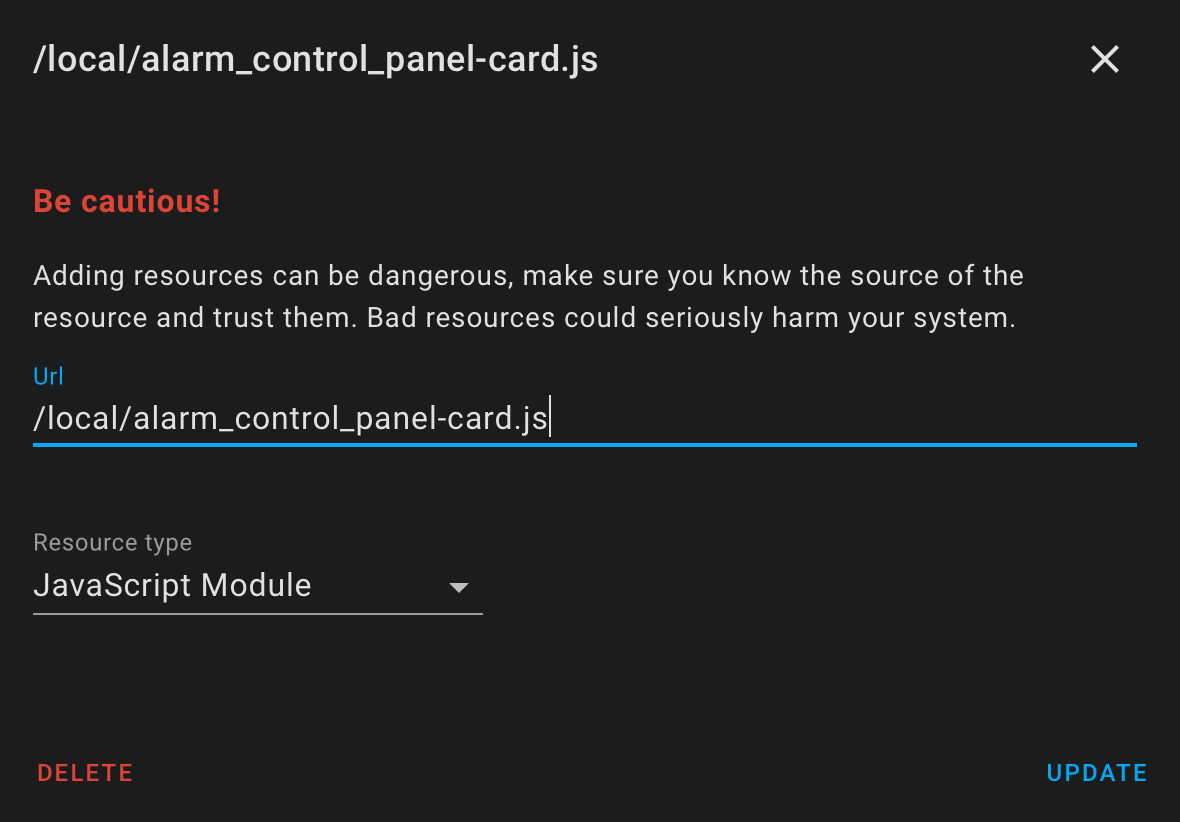
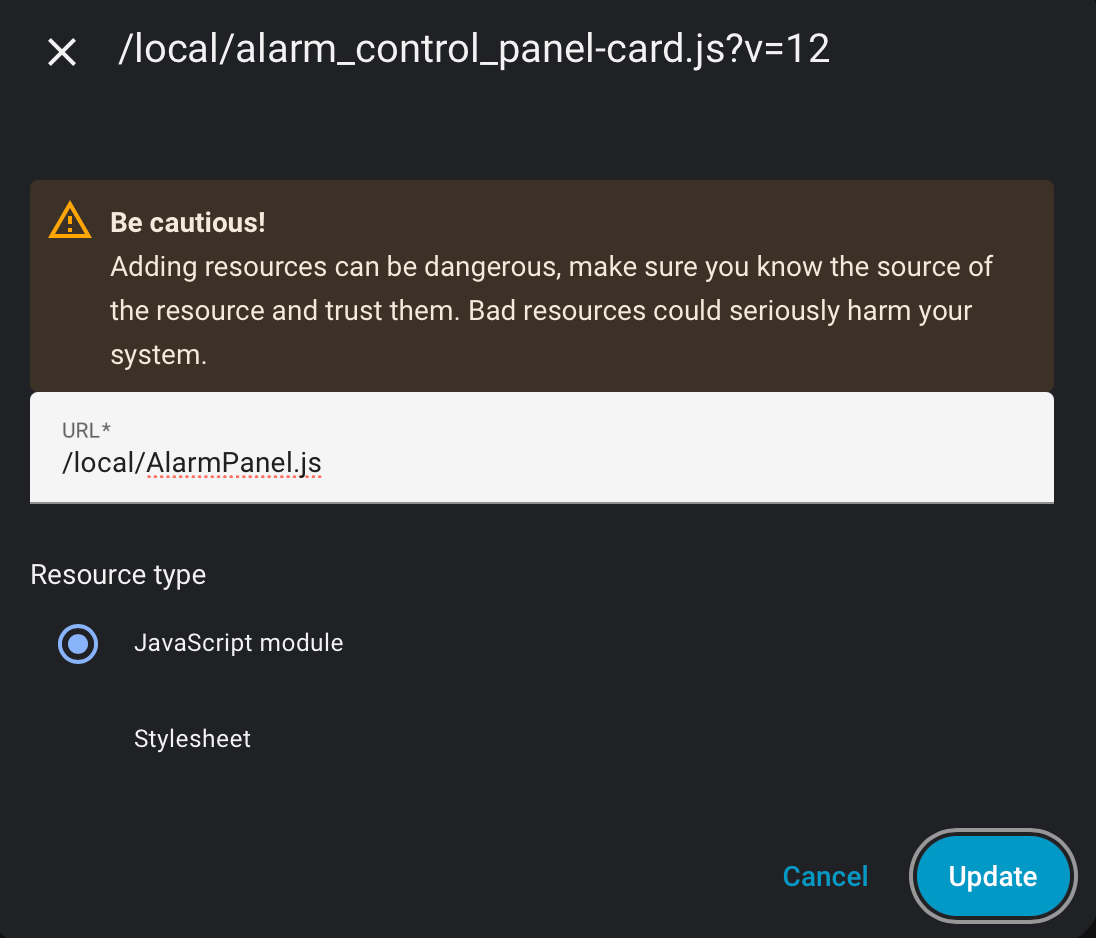
revise installation instructions and screenshot after renaming alarm_control_panel-card.js to AlarmPanel.js.  tested in 2025.10.1

diff --git a/README.md b/README.md
@@ -6,7 +6,9 @@ I have included my complete working [manual alarm control panel](https://www.hom
 
 ## News
 
-This card was last tested working with Home Assistant 2024.9.0. HA occasionally makes breaking changes, and I don't constantly update my system so I may not notice if it becomes broken.
+This card was last tested working with Home Assistant 2025.10.1. HA occasionally makes breaking changes, and I don't constantly update my system so I may not notice if it becomes broken.
+
+Previous versions of this card were named alarm_control_panel-card.js, but the card was renamed to AlarmPanel.js to match the repo name, for HACS compatibility. If you are updating, revisit the installation instructions below.
 
 Previous versions of this card included a custom version of the HA manual_alarm_panel component. This is no longer supported. If you had installed a previous version of this card, you should remove it from `/config/custom_components/manual`. Optional backstory: I had modified that component to publish a state_duration attribute for use with my countdown timer. But the HA team [rejected my pull request](https://github.com/home-assistant/core/pull/41872), so I have since removed it, and now require the durations to be specified in the card config, as detailed below. 
  
@@ -37,11 +39,11 @@ To use this card in Home Assistant:
 <img src="https://github.com/jcooper-korg/AlarmPanel/blob/master/Screenshots/Installation-Resource.png?raw=true" width="400">
 
 
-* copy the `alarm_control_panel-card.js` into the www folder in your config folder (create the www folder if it's missing, and restart Home Assistant)
-* install it as a custom Lovelace resource in Configuration > Lovelace Dashboards > Resources. 
+* copy the `AlarmPanel.js` into the www folder in your config folder (create the www folder if it's missing, and restart Home Assistant)
+* install it as a custom Lovelace resource in Configuration > Dashboards > Resources. (Resources is under the top right ... menu). 
 	* Turn on Advanced Mode in your user profile if you can't see the Resources tab. 
-	* The Url of the file will be `/local/alarm_control_panel-card.js`, and the type is "JavaScript Module".  
-	* If you are making local modifications to the file, you can add a version number to the end of the Url, like `/local/alarm_control_panel-card.js?v=3` and increment the number each time you make a change, to force it to use the new version instead of your browser cached version.
+	* The Url of the file will be `/local/AlarmPanel.js`, and the type is "JavaScript Module".  
+	* If you are making local modifications to the file, you can add a version number to the end of the Url, like `/local/AlarmPanel.js?v=3` and increment the number each time you make a change, to force it to use the new version instead of your browser cached version.
 * add the alarm panel to your lovelace view using a Manual card, with type set as `type: 'custom:alarm_control_panel-card'` and specify your alarm\_control\_panel entity as named in your configuration.yaml (e.g. `entity: alarm_control_panel.house`). See my [example AlarmLovelaceDashboard yaml configs](https://github.com/jcooper-korg/AlarmPanel/blob/master/ExampleConfig).
 
 ## Card configuration options
